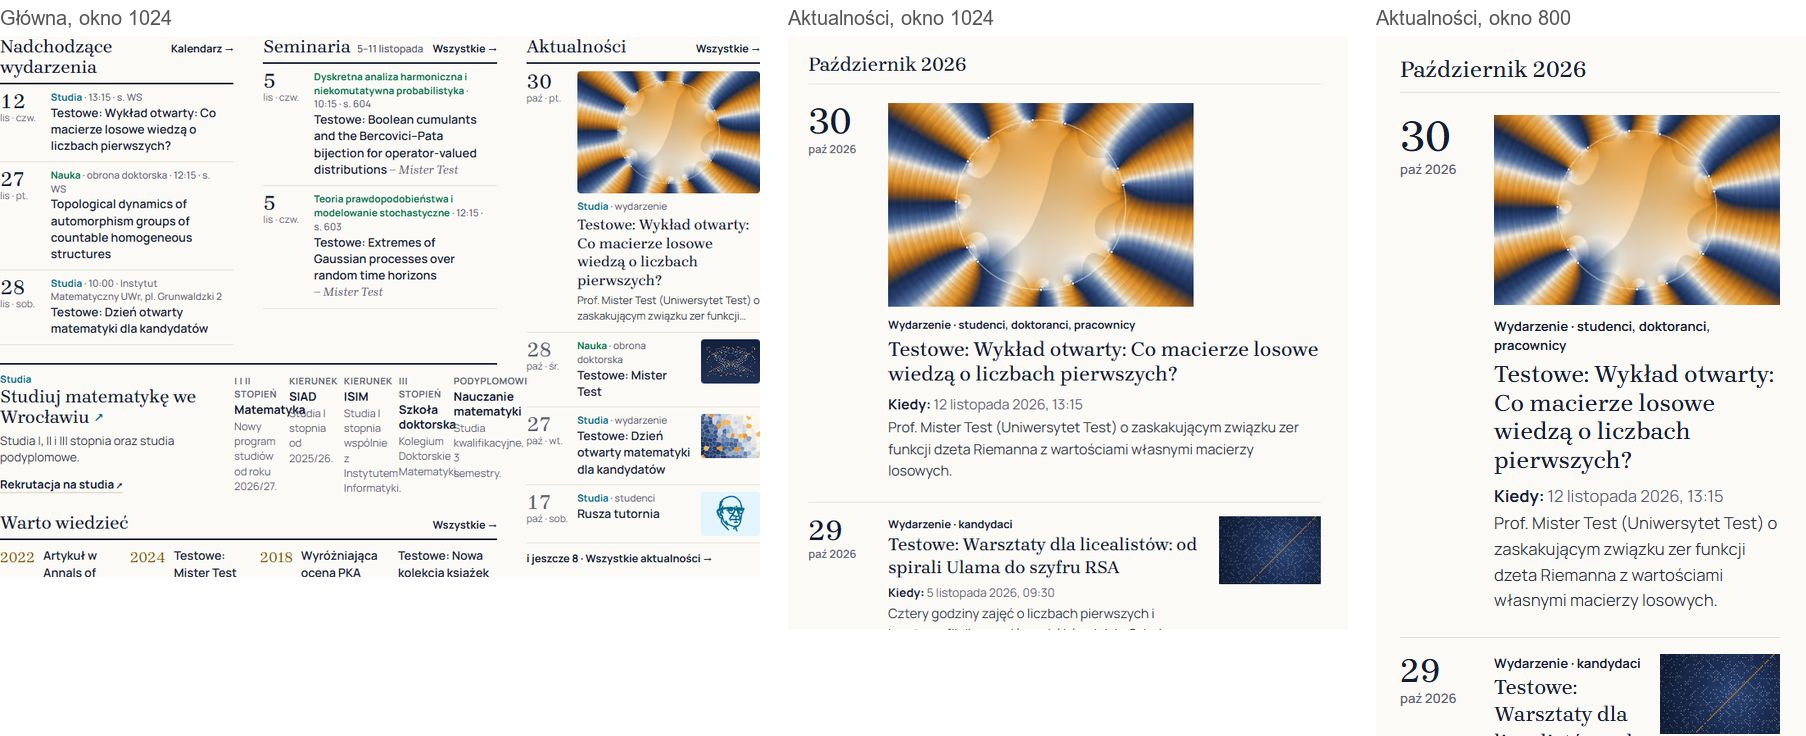
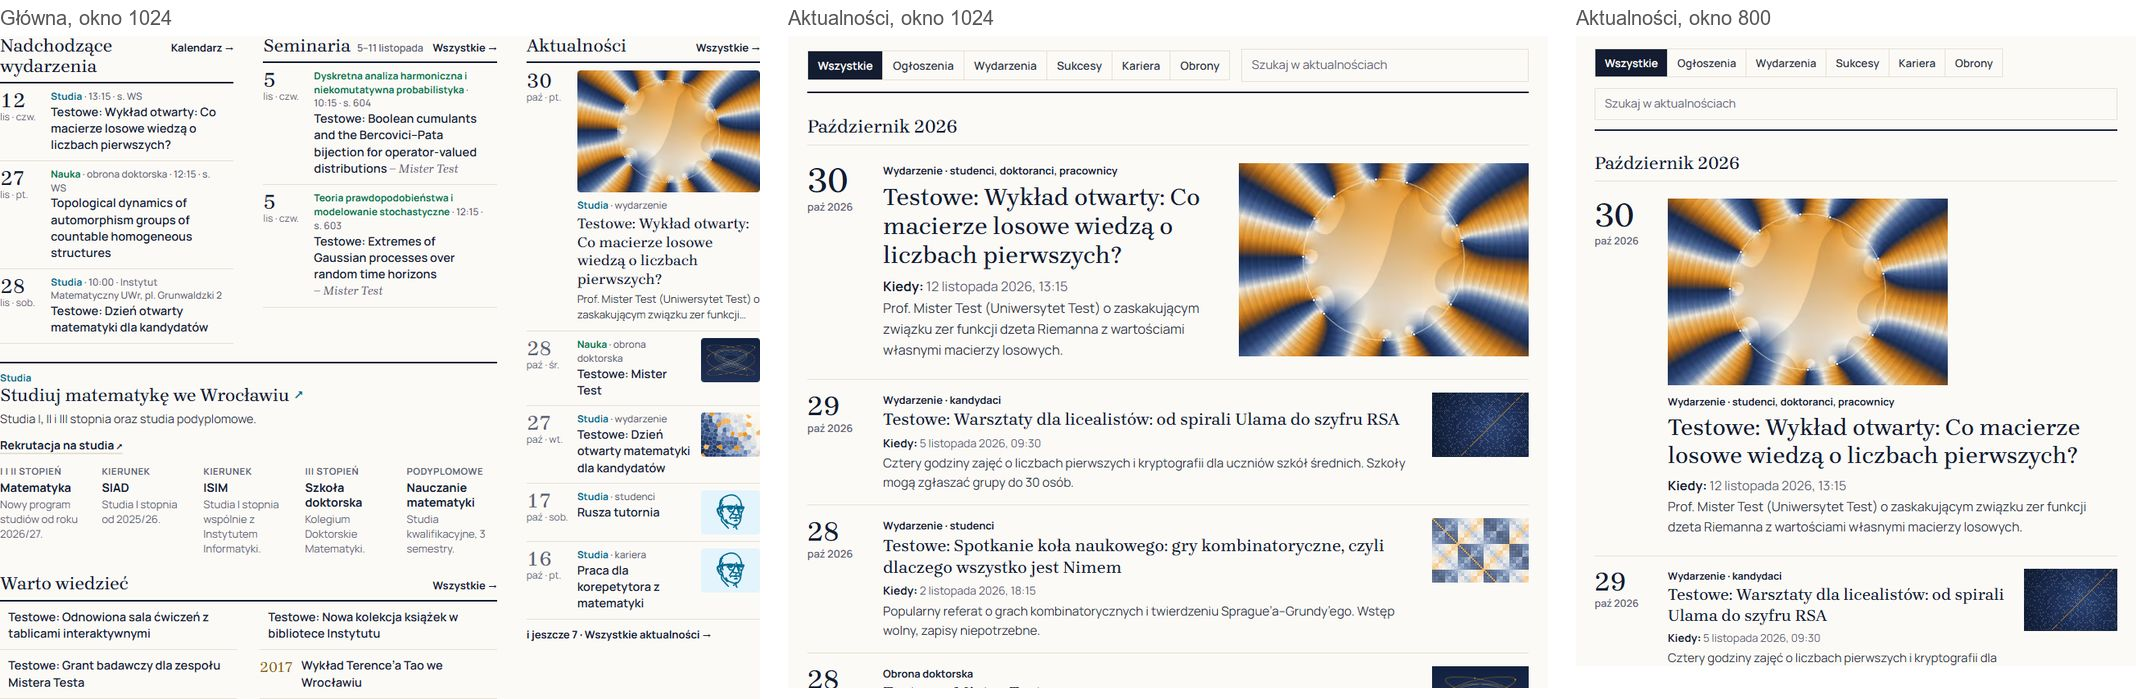
Zlecenie 16: raport po naprawie układu przy węższych oknach
Opis naprawy i zrzuty przed i po, nowe wartości listy Aktualności w sekcji
o zaleceniu 22, pytanie 8 o poziome przewijanie głównej i pasek nawigacji.

diff --git a/RAPORT-ZLECENIE-16.md b/RAPORT-ZLECENIE-16.md
@@ -1,6 +1,6 @@
 # Raport: zlecenie 16 — wersja angielska (5.11.2026)
 
-Gałąź: `wyglad/zlecenie-16` (z `9fd255ee`, ostatniego commita zlecenia 15), 12 commitów zlecenia, 2 commity decyzji o obronach (`4fe03c13`, `ac7855c2`), commit zalecenia 22 ze zlecenia 14 (`8f0019b2`) i 2 commity raportu, **bez pushowania**. Repozytoria treści: 36 commitów w 20 klonach, też bez pushowania. Zlecenie: `.przekazanie/zlecenia/16-wersja-angielska.md`.
+Gałąź: `wyglad/zlecenie-16` (z `9fd255ee`, ostatniego commita zlecenia 15), 12 commitów zlecenia, 2 commity decyzji o obronach (`4fe03c13`, `ac7855c2`), commit zalecenia 22 ze zlecenia 14 (`8f0019b2`), commit naprawy układu (`775aa7bf`) i 3 commity raportu, **bez pushowania**. Repozytoria treści: 36 commitów w 20 klonach, też bez pushowania. Zlecenie: `.przekazanie/zlecenia/16-wersja-angielska.md`.
 
 **Do Twojej decyzji albo działania**
 
@@ -18,6 +18,7 @@ Stan sprawdzenia:
 - Wszystkie łatki weszły czysto, na klony i na nakładkę: bez `git apply -3` i bez konfliktów.
 - Sprawdzane w Edge (Playwright) na zbudowanej stronie: 20 stron `/en` na 1440 i 390 px przed i po, 3 strony na 1920 px w ciemnym motywie, otwarte menu na 390, 1024, 1280 i 1440 px. Żadna z tych stron nie ma poziomego przewijania.
 - Zalecenie 22, też w Edge na zbudowanej stronie: główna na 1920, 1440, 1280, 1024 i 390 px, Aktualności na 1920, 1440, 1024, 800 i 390 px, PL i EN, jasny i ciemny motyw. Bez błędów JavaScriptu i bez poziomego przewijania.
+- Naprawa układu, też w Edge: główna na 15 szerokościach od 761 do 2560 px, lista na 11 od 761 do 1920 px, do tego granice nowych reguł, PL i EN. Poziome przewijanie ma tylko główna poniżej 944 px, tak samo jak przed tym zleceniem (pytanie 8).
 - **Czego nie sprawdzałem:** Firefoksa, Safari, prawdziwych telefonów, czytnika ekranu (`lang="pl"` z D14 sprawdzony tylko w HTML), formularzy w samym Pages CMS. Skryptu `Code.gs` nie uruchamiałem w Google: strony potwierdzania i wypisywania testowałem z podstawionymi odpowiedziami serwera.
 
 ## Podsumowanie
@@ -44,6 +45,7 @@ Stan sprawdzenia:
 | Obrony bez `tresc_en` (Twoja decyzja po raporcie) | zrobione | `4fe03c13` (łatka) | Web-Aktualnosci |
 | Polskie obrony: tekst z danych (Twoja decyzja po raporcie) | zrobione | `ac7855c2` | Web-Aktualnosci |
 | Zalecenie 22 ze zlecenia 14 (osobne polecenie) | zrobione, telefon do oceny | `8f0019b2` | — |
+| Układ przy węższych oknach (Twoja decyzja po raporcie) | zrobione | `775aa7bf` | — |
 | Łatki tego zlecenia | zapisane | `ec0b0a4a` | `dok/latki/zlecenie-16/` |
 
 ## Kryteria odbioru
@@ -78,9 +80,8 @@ Wykonane na Twoje polecenie na tej gałęzi, osobnym commitem `8f0019b2`, bez pu
 
 | Okno | Zdjęcie | Tytuł | Wysokość wiersza | Zdjęcie względem tekstu |
 |---|---|---|---|---|
-| od 1280 px | 360×240 | 30 px | 291 px (prototyp 287) | obok, kolumny 76 / tekst / 360 |
-| 1024 px | 360×240 | 24 px | 493 px | nad |
-| 800 px | 286×191 | 24 px | 545 px | nad |
+| od 988 px | 360×240 | 30 px | 291 px (prototyp 287) | obok, kolumny 76 / tekst / 360 |
+| 800 px | 360×240 | 30 px | 482 px | nad |
 | 390 px | 292×195 | 22 px | 454 px | nad etykietą |
 
 Data ma 44 px, tekst 16,5 px, a odstępy 22 i 24 px (na telefonie data 28 px, tekst 15 px). Sprawdziłem pięć filtrów rodzaju, szukanie, szukanie bez wyniku (nic nie jest powiększone, widać komunikat), wyczyszczenie pola i `?dla=kandydaci`: za każdym razem powiększony jest dokładnie pierwszy widoczny wpis.
@@ -107,15 +108,39 @@ Data ma 44 px, tekst 16,5 px, a odstępy 22 i 24 px (na telefonie data 28 px, te
 **Odstępstwa od zlecenia:**
 
 1. **168×126 i 21 px obowiązują przy oknie 1920 px.** Prototyp ma płótno 1920 px skalowane do okna, więc te wartości dotyczą kolumny 584 px. Przy węższych oknach kolumna ma mniej (424 px przy 1440), dlatego zdjęcie maleje proporcjonalnie, najwyżej do 112 px, a tytuł do 18 px. Poniżej 1180 px zdjęcie staje nad tekstem.
-2. **Strona Aktualności poniżej 1280 px: zdjęcie nad tekstem**, najwyżej 360 px, tytuł 24–30 px. Zlecenie podaje tylko układ z kolumną 360 px, ale przy 1024 px zostawiał on tekstowi 132 px, a wiersz miał 818 px wysokości.
+2. **Strona Aktualności poniżej 988 px: zdjęcie nad tekstem.** Zlecenie podaje tylko układ z kolumną 360 px, a przy węższej liście zostawiałby on tekstowi mniej niż 388 px.
 3. **Telefon, strona główna: powiększony wpis i jeden zwykły** zamiast trzech wierszy. Powiększony liczy się za dwa, jak w krótkiej kolumnie; przycisk pokazuje „Zobacz więcej (10)”, po rozwinięciu widać 12 wpisów. Zlecenie nie mówi o liczbie wierszy na telefonie.
 
 Dwa skutki uboczne: wiersz „Kiedy:” w powiększonym wpisie też ma 16,5 px, jak w prototypie. Wszystkie zdjęcia listy mają szerszy `srcset`, bo filtr może powiększyć każdy wpis, więc budowa tworzy więcej wariantów.
 
-**Zauważone przy okazji, nie zmieniałem (pytanie 8).** Oba problemy były już na budowie ze zlecenia 15:
+**Układ przy węższych oknach (Twoja decyzja „Tak, napraw obie”, commit `775aa7bf`).** Obie usterki były już na budowie ze zlecenia 15. Pasek Studia miał problem szerszy, niż pisałem wcześniej: karty wychodziły poza pola przy każdym oknie od 761 do około 1340 px, nie tylko przy 1024.
 
-- **Strona główna, 1024 px:** w pasku „Studia” teksty sąsiednich kart nachodzą na siebie („Matematyka” na „Studia I stopnia”), a etykieta „PODYPLOMOWE” dochodzi do kolumny Aktualności. Widać to na zrzucie przy 1024 px wyżej.
-- **Strona Aktualności, 761–1000 px:** obok listy stoi pusta kolumna 236 px, więc zwykłe wiersze są bardzo wąskie i wysokie (431 px przy 800, 574 px przy 761).
+| Miejsce | Było | Jest |
+|---|---|---|
+| Studia na głównej, okno poniżej 1366 px | opis obok pięciu kart; karta miała 53 px przy 1024 i 18 px przy 761 | opis nad kartami; karta ma 110 px przy 1024; poniżej 960 px trzy kolumny, 134 px przy 761 |
+| Warto wiedzieć na głównej, okno poniżej 1366 px | cztery kolumny, długie słowa wchodziły na sąsiednią pozycję; 131 px przy 1024 | dwie kolumny, 289 px przy 1024 |
+| Lista Aktualności, okno poniżej 1368 px | pusta kolumna 236 px obok listy; przy 800 px lista miała 380 px, a zwykły wiersz 431 px wysokości | bez pustej kolumny; przy 800 px lista ma 672 px, a zwykły wiersz 208 px |
+
+Warto wiedzieć nie było w pytaniu, które zadałem. Dołożyłem je, bo to ta sama usterka tuż pod paskiem Studia i jedna linia CSS.
+
+Główna przy 1024 px, przed i po:
+
+![Główna przy 1024 px: przed i po](raport-zrzuty/z16-z22-naprawa-glowna.jpg)
+
+Lista przy 800 px, przed i po:
+
+![Lista Aktualności przy 800 px: przed i po](raport-zrzuty/z16-z22-naprawa-lista.jpg)
+
+Co jeszcze warto wiedzieć o tej naprawie:
+
+- **Bez zmian:** główna od 1366 px, lista od 1368 px, wszystkie inne podstrony. Inne podstrony mają w prawej kolumnie prawdziwy spis, więc przy 800 px tekst nadal ma tam 380 px.
+- **Pasek Studia jest wyższy:** 219 zamiast 158 px przy 1280 i 238 zamiast 161 px przy 1024. Długa kolumna sama dopasowuje liczbę wierszy.
+- **Jedno słowo przy 1366 px:** „popularnonaukowych” wchodzi 14 px w odstęp 28 px między kolumnami, ale niczego nie dotyka.
+
+**Znalezione przy sprawdzaniu, nie zmieniałem (pytanie 8).** Oba problemy były już na budowie ze zlecenia 15:
+
+- **Główna, okno poniżej 944 px (EN poniżej 881 px):** poziome przewijanie. Okładka ma cztery kolumny i „Popularyzacja” kończy się na 1022 px przy oknie 800, a pasek nawigacji też jest szerszy od okna.
+- **Pasek nawigacji, okno 1024 px i węższe:** nazwa instytutu łamie się na cztery wiersze i wystaje 5 px nad pasek i 3 px pod niego. Dotyczy głównej i listy; innych podstron nie mierzyłem.
 
 ## Co warto wiedzieć o wykonaniu
 
@@ -168,7 +193,7 @@ Z 380 polskich stron zmieniło się 26, wszystkie zgodnie ze zleceniem albo Twoi
 
 | Strony | Przyczyna |
 |---|---|
-| 11 stron (aktualności, sukcesy) | D8: pisownia „Krok w Przyszłość”; lista `aktualnosci` także zalecenie 22 |
+| 11 stron (aktualności, sukcesy) | D8: pisownia „Krok w Przyszłość”; lista `aktualnosci` także zalecenie 22 i naprawa układu |
 | 8 stron obron | tekst składany z danych, Twoja decyzja |
 | strona główna | zalecenie 22 |
 | `nauka/konferencje`, `instytut/zaklady/algebra-i-teoria-modeli` | D11: „Szklarska Poręba” |
@@ -383,7 +408,7 @@ Ciemny motyw (1920 px), po zmianach:
 5. **USOSweb:** bez dopisku, bo system ma wersję angielską, ale automatyczne pobranie się nie udało. Sprawdzisz po zalogowaniu?
 6. **Wpisy testowe** („Testowe: …”, „Mister Test”) nadal są w danych i dostają tłumaczenia z łatek. Usunięcie należy do redakcji. Dziś to wpis testowy jest powiększony na głównej i na liście.
 7. **Zalecenie 22 na telefonie:** na głównej widać powiększony wpis i jeden zwykły. Czy zostawić tak, czy pokazać trzy wiersze, jak przed zmianą?
-8. **Usterki zauważone przy okazji** (sekcja o zaleceniu 22): nachodzące teksty w pasku „Studia” przy 1024 px i wąska lista Aktualności przy 761–1000 px. Czy naprawić je osobnym commitem?
+8. **Główna i pasek nawigacji przy węższych oknach** (sekcja o zaleceniu 22): poziome przewijanie głównej poniżej 944 px i nazwa instytutu wystająca z paska przy oknie 1024 px i węższym. Czy naprawić?
 
 ## Załącznik: 31 nazw przedmiotów bez angielskiej nazwy w USOS
 
